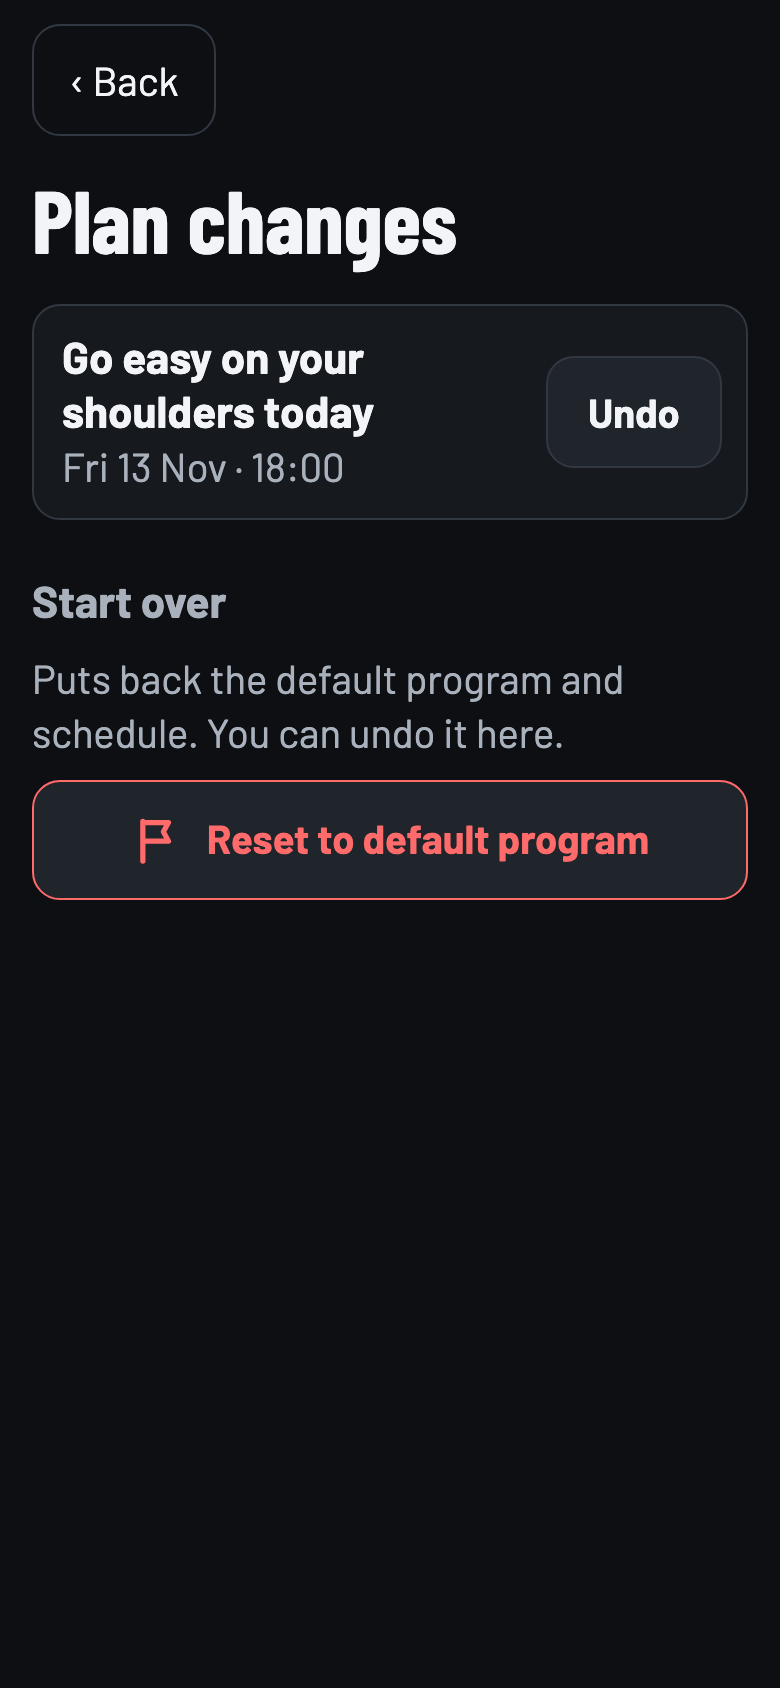
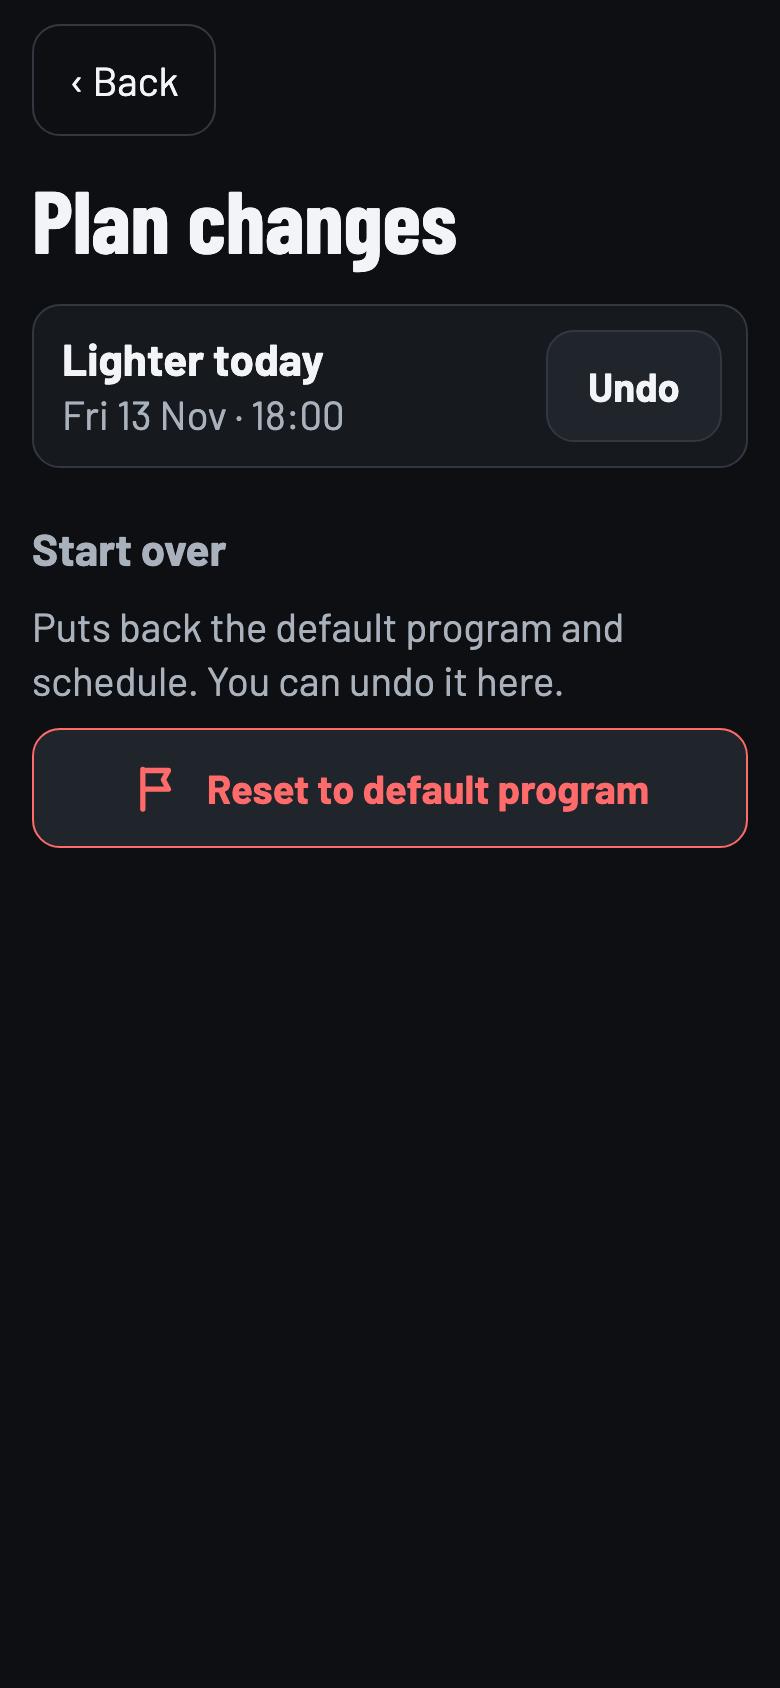
M10 phase A verified: fix flaky tap-target helper, verifier screenshots and evidence

Changed region(s): [[0.0308, 0.1848, 0.9846, 0.5545], [0.7385, 0.2156, 0.8923, 0.2773]]

diff --git a/e2e/trainer.spec.ts b/e2e/trainer.spec.ts
@@ -203,14 +203,21 @@ async function openCoach(page: Page) {
 async function expectTapTargets(page: Page, selector: string) {
   // evaluateAll doesn't wait: let the screen's buttons render first.
   await expect(page.locator(`${selector} button`).first()).toBeVisible();
-  const heights = await page
-    .locator(`${selector} button`)
-    .evaluateAll((els) =>
-      els
-        .filter((e) => e.getClientRects().length > 0)
-        .map((e) => [e.textContent?.trim() ?? '', e.getBoundingClientRect().height] as const),
-    );
-  expect(heights.length).toBeGreaterThan(0);
+  // Some screens render twice (e.g. Plan changes after its async list load), so the buttons can be
+  // swapped out between the wait above and the measure. Retry until a laid-out set is measured.
+  let heights: (readonly [string, number])[] = [];
+  await expect
+    .poll(async () => {
+      heights = await page
+        .locator(`${selector} button`)
+        .evaluateAll((els) =>
+          els
+            .filter((e) => e.getClientRects().length > 0)
+            .map((e) => [e.textContent?.trim() ?? '', e.getBoundingClientRect().height] as const),
+        );
+      return heights.length;
+    })
+    .toBeGreaterThan(0);
   for (const [name, hgt] of heights) expect(hgt, `button "${name}"`).toBeGreaterThanOrEqual(56);
 }
 

diff --git a/docs/PROGRESS.md b/docs/PROGRESS.md
@@ -492,14 +492,14 @@ M10-q8.
     reload keeps the plan, Reset + Undo, and no `input`/`textarea` on the Exercise screen during a set.
   - Done when: it passes with `--repeat-each=3` and the full `npm run e2e` is green.
   - Deps: 16.
-- [ ] 18. [reviewer] Review the branch diff against CLAUDE.md.
+- [x] 18. [reviewer] Review the branch diff against CLAUDE.md.
   - Pure core (no DOM, no fetch in `src/core/trainer`).
   - Every action goes through `propose*`; nothing applies without a tap; Undo everywhere.
   - Copy passes `checkCopy`; referral and red-flag lines are verbatim.
   - 56 / 64 / 20px, tokens only.
   - No typing mid-set; dev log ids only; no network.
   - Deps: 17.
-- [ ] 19. [verifier] Verify phase A against SPEC M10 Accept (phase A).
+- [x] 19. [verifier] Verify phase A against SPEC M10 Accept (phase A).
   - Run `npm run check`, `npm run e2e`, `npm run build`.
   - The intent-eval score.
   - 390×844 screenshots `docs/screenshots/m10-*`, console clean, 0 off-device requests.
@@ -1433,6 +1433,8 @@ Scope: the six `tracking: "pose"` exercises in `program.json` (Dumbbell_Bicep_Cu
 - [x] 7. Verify (check, e2e, build, 390×844 screenshots of each screen, console), merge, push → 🧍 Checkpoint A
 
 ## Decisions
+
+- 2026-11-15: **M10 phase A verified (task 19).** Every SPEC M10 phase A Accept item met: check 2186 + 29; intent eval 87/87 (100%), safety 31/31; build OK (main 142.53 kB gzip); full e2e 123 passed, 1 skipped; trainer.spec ×5 parallel 60/60 after fixing a flaky tap-target helper (it measured between Plan changes' two renders). Screenshots `docs/screenshots/m10-*.png`. Non-blocking: the Undo toast covers the tab bar for 10 s; older "3D demo"/"Camera" chips under 56px (pre-M10).
 
 - 2026-11-15: **M10 fix round (main).** (1) "Go easy on <area>" swaps only for a candidate sharing a primary muscle outside the area; with today's catalog it removes primary-area moves and lightens secondary-area moves (SPEC updated). (2) REPLACE_UPCOMING and the new INSERT_UPCOMING work while paused; mid-workout Undo restores removed rows in place. (3) If a mid-workout change on Rest leaves no unstarted rows the session goes to Summary and Undo can't reopen it (actions refuse when nothing would be left, so this shouldn't occur). Evidence: check 2186 + 29; full e2e 123 passed, 1 skipped; re-review PASS.
 
